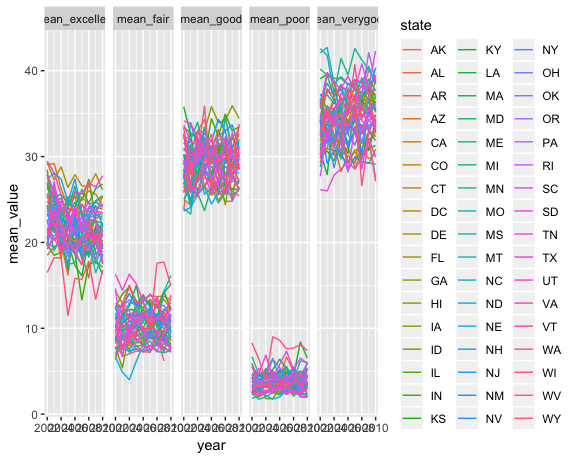
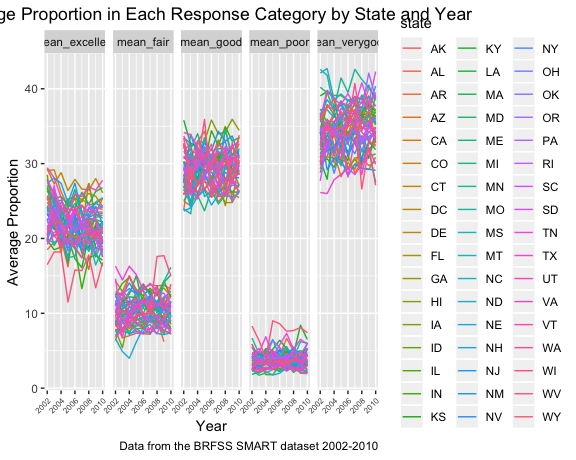
Final Commit

diff --git a/p8105_hw3_edm2152.md b/p8105_hw3_edm2152.md
@@ -19,8 +19,6 @@ brfss_data = brfss_smart2010 %>%
   rename(state = locationabbr, county = locationdesc)
 ```
 
-In 2002, which states were observed at 7 locations?
-
 ``` r
 brfss_data %>% 
   filter(year == 2002) %>% 
@@ -37,9 +35,9 @@ brfss_data %>%
 | FL    |         7|
 | NC    |         7|
 
-Connecticut, Florida and North Carolina were observed at 7 locations.
+Connecticut, Florida and North Carolina were observed at 7 locations in 2002.
 
-Make a “spaghetti plot” that shows the number of observations in each state from 2002 to 2010.
+The “spaghetti plot” below shows the number of observations in each state from 2002 to 2010:
 
 ``` r
 brfss_data %>% 
@@ -47,12 +45,18 @@ brfss_data %>%
   group_by(state, year) %>% 
   summarize(n_locations = n()) %>% 
   ggplot(aes(x = year, y = n_locations, color = state)) + 
-  geom_line()
+  geom_line() +
+  labs(title = "Number of Observations in Each State 2002-2010",
+       x = "Year",
+       y = "Number of Observations by Location",
+       caption = "Data from the BRFSS SMART dataset 2002-2010") +
+  theme(axis.text.x = element_text(angle = 45, hjust = 1, size = 6),
+        plot.title = element_text(hjust = 0.5))
 ```
 
-![](p8105_hw3_edm2152_files/figure-markdown_github/spaghetti-1.png)
+<img src="p8105_hw3_edm2152_files/figure-markdown_github/spaghetti-1.png" width="90%" />
 
-Make a table showing, for the years 2002, 2006, and 2010, the mean and standard deviation of the proportion of “Excellent” responses across locations in NY State.
+The table below shows, for the years 2002, 2006, and 2010, the mean and standard deviation of the proportion of “Excellent” responses across locations in NY State:
 
 ``` r
 brfss_data %>% 
@@ -71,7 +75,7 @@ brfss_data %>%
 | NY    |  2006|         22.53333|       4.000833|
 | NY    |  2010|         22.70000|       3.567212|
 
-For each year and state, compute the average proportion in each response category (taking the average across locations in a state). Make a five-panel plot that shows, for each response category separately, the distribution of these state-level averages over time.
+The five-panel plot below shows, for each year and state, the state-level average proportion in each response category over time by category:
 
 ``` r
 brfss_data %>% 
@@ -86,10 +90,16 @@ brfss_data %>%
   gather(key = mean_variable, value = mean_value, mean_excellent:mean_poor) %>% 
   ggplot(aes(x = year, y = mean_value, color = state)) +
   geom_line() +
-  facet_grid(~mean_variable)   
+  facet_grid(~mean_variable) + 
+  labs(title = "Average Proportion in Each Response Category by State and Year",
+       x = "Year",
+       y = "Average Proportion",
+       caption = "Data from the BRFSS SMART dataset 2002-2010") +
+  theme(axis.text.x = element_text(angle = 45, hjust = 1, size = 6),
+        plot.title = element_text(hjust = 0.5))
 ```
 
-![](p8105_hw3_edm2152_files/figure-markdown_github/avg_prop-1.png)
+<img src="p8105_hw3_edm2152_files/figure-markdown_github/avg_prop-1.png" width="90%" />
 
 Problem 2
 ---------
@@ -150,7 +160,7 @@ There are 134 distinct aisles in the dataset and the top five aisles with the mo
 
 -   Packaged Cheese (41,699 items ordered)
 
-Make a plot that shows the number of items ordered in each aisle. Order aisles sensibly, and organize your plot so others can read it.
+The plot below shows the number of items ordered in each aisle:
 
 ``` r
 instacart_data %>% 
@@ -160,11 +170,16 @@ instacart_data %>%
   ggplot(aes(x = reorder(aisle, number_items), y = number_items, fill = aisle)) +
   coord_flip()+
   geom_col() +
-  theme(axis.text.x = element_text(angle = 45, hjust = 1, size = 8),
-        legend.position = "none")
+  labs(title = "Number of Items Ordered in Each Aisle",
+       x = "Number of Items",
+       y = "Aisle Name") +
+  theme(axis.text.x = element_text(angle = 45, hjust = 1, size = 5),
+        axis.text.y = element_text(size = 6),
+        legend.position = "none",
+        legend.text = element_text(angle = 45, hjust = 1))
 ```
 
-![](p8105_hw3_edm2152_files/figure-markdown_github/items%20plot-1.png)
+<img src="p8105_hw3_edm2152_files/figure-markdown_github/items plot-1.png" width="90%" />
 
 The table below shoes the most popular item in the following three aisles:
 
@@ -221,9 +236,9 @@ ny_noaa_data = ny_noaa %>%
          year = as.numeric(year))
 ```
 
-In the NY NOAA dataset there are 9 variables which includes a character weather station ID, date of observation, and variables for precipitation observed, snowfall, snow depth, and temperature maximum and minimums. The dataset includes 2595176 observations (one observation for each day starting on January 1st, 1981 and ending on December 31st, 2010).
+In the NY NOAA dataset there are 9 variables which includes a character weather station ID, date of observation, and variables for precipitation observed, snowfall, snow depth, and temperature maximum and minimums. The dataset includes 2595176 observations (one observation for each day starting on January 1st, 1981 and ending on December 31st, 2010). Precipitation was in tenths of a mm and has been converted to mm. Snowfall and depth are in mm, temperature max and minimums were in tenths of a degree Celsius and have been converted.
 
-Temp was 10th of degree and precipitation is in tenths of mmm.
+The average amount of precipitation is 2.9823 mm, the average maximum temperature of the full dataset is 13.9798°C with a median maximum temperature of 15°C. The average minimum temperature of the full dataset is 3.0285°C with a median minimum temperature of 15°C. However, these values should be cautiously reported due to the amount of missing/NA data which seems to be significant.
 
 ``` r
 ny_noaa_data %>% 
@@ -269,7 +284,7 @@ ny_noaa_data %>%
         plot.title = element_text(hjust = 0.5))
 ```
 
-![](p8105_hw3_edm2152_files/figure-markdown_github/unnamed-chunk-3-1.png)
+<img src="p8105_hw3_edm2152_files/figure-markdown_github/unnamed-chunk-3-1.png" width="90%" />
 
 Two-panel plot of:
 
@@ -317,4 +332,4 @@ temp_plot + snowfall_plot
 
     ## Picking joint bandwidth of 3.76
 
-![](p8105_hw3_edm2152_files/figure-markdown_github/unnamed-chunk-4-1.png)
+<img src="p8105_hw3_edm2152_files/figure-markdown_github/unnamed-chunk-4-1.png" width="90%" />
